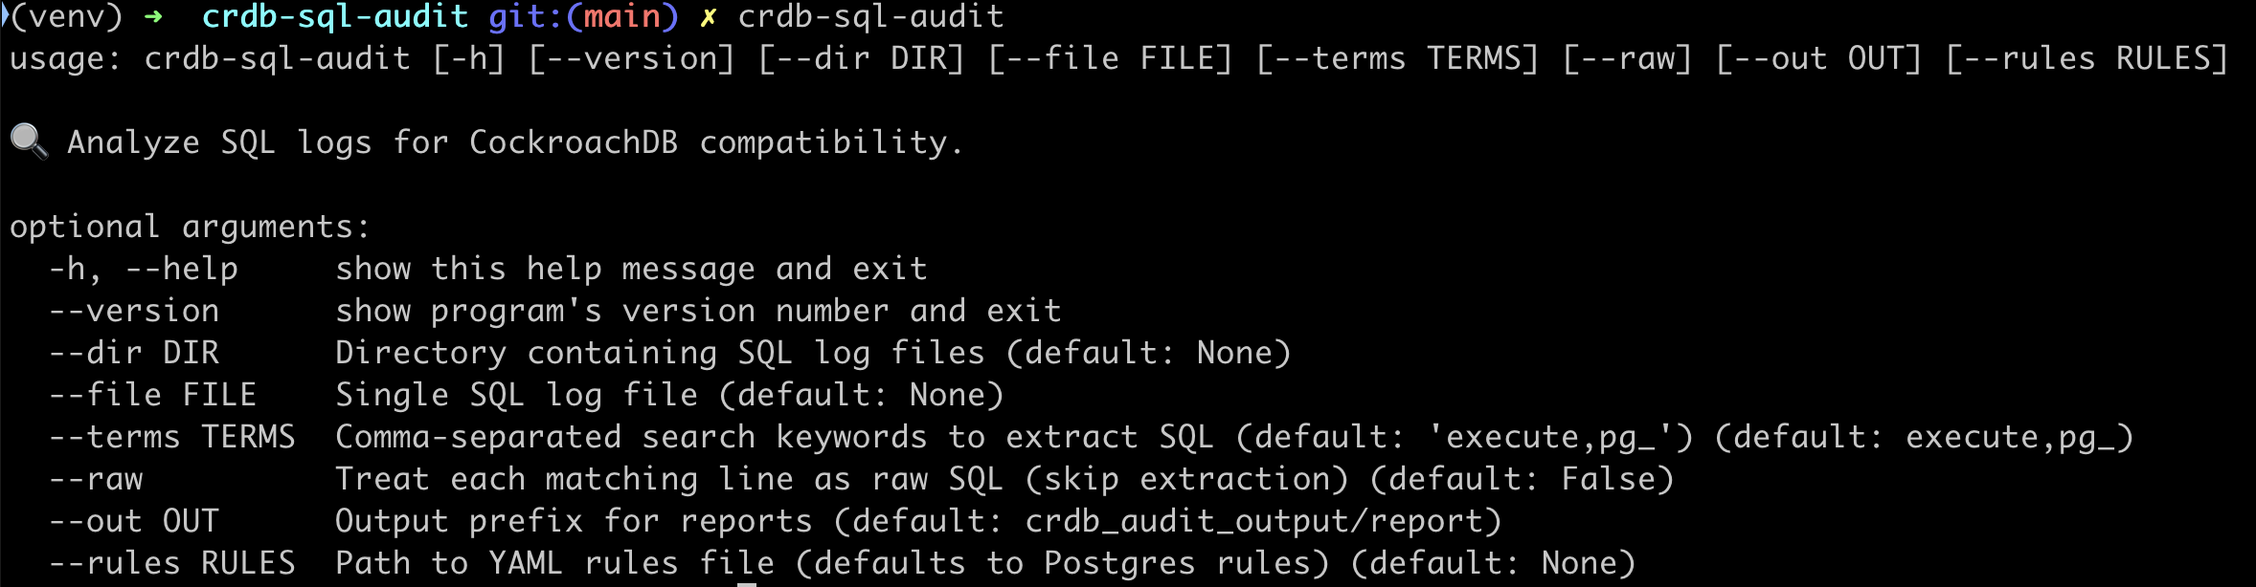
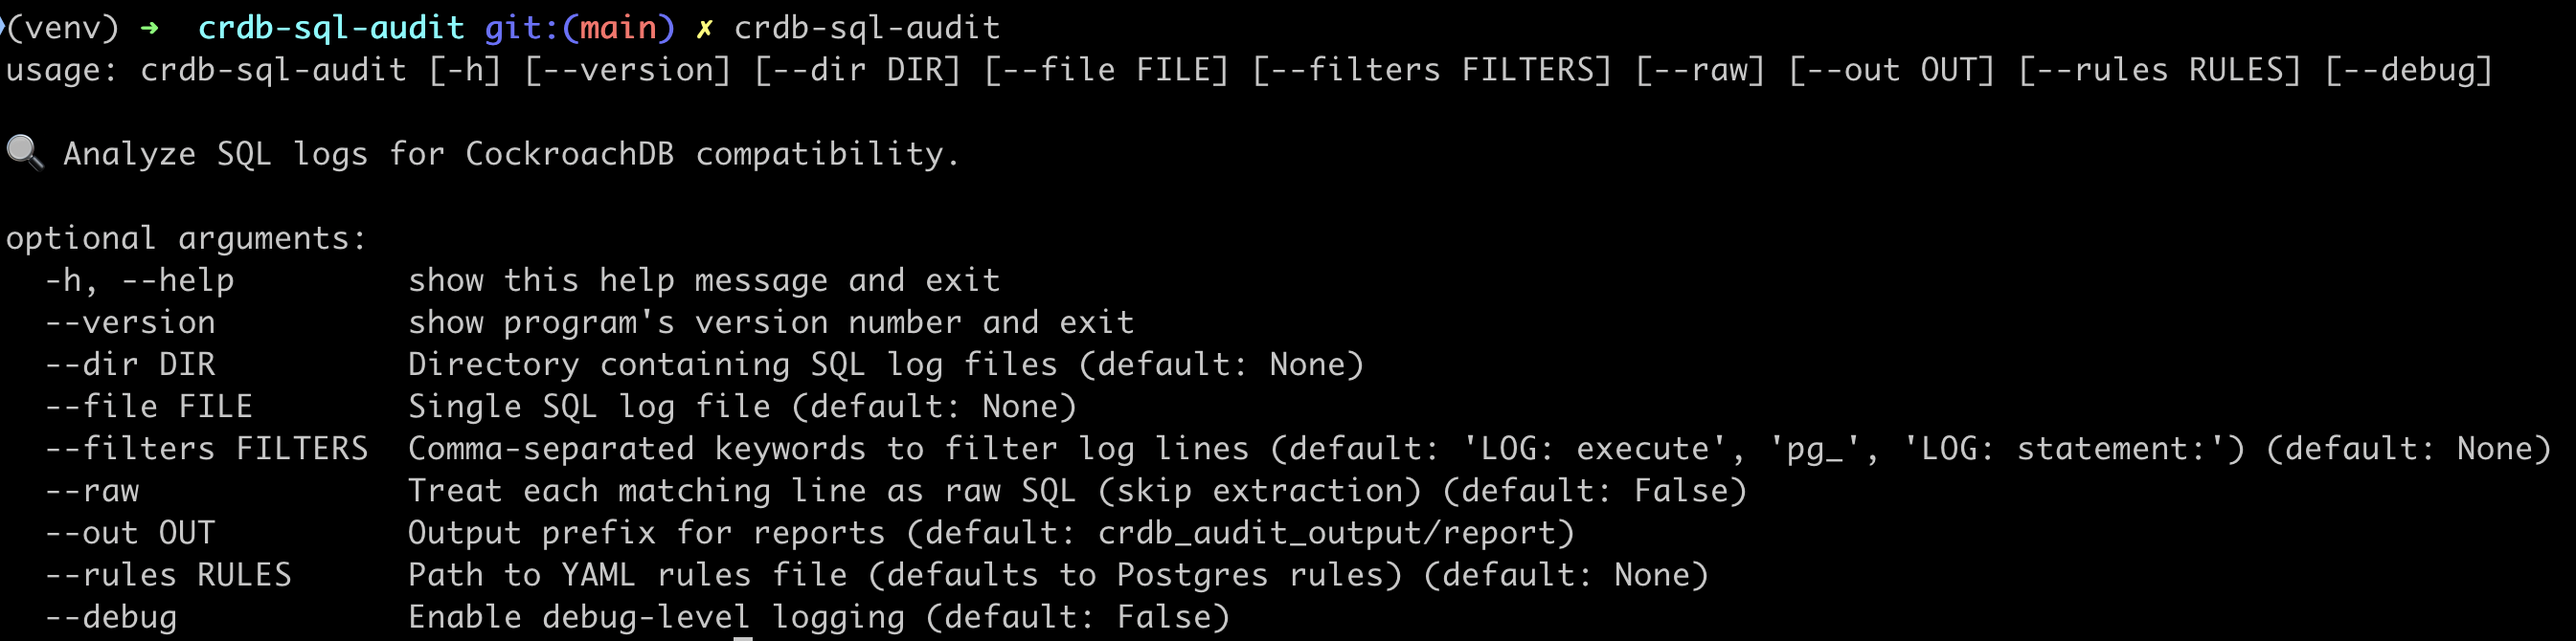
debug enhancements and raw support

Changed region(s): [[0.0, 0.3404, 0.9915, 1.0], [0.0, 0.0, 0.9915, 0.1547], [0.0, 0.2166, 0.4338, 0.2785]]

diff --git a/crdb_sql_audit/audit.py b/crdb_sql_audit/audit.py
@@ -9,6 +9,8 @@ import pandas as pd
 import matplotlib.pyplot as plt
 
 from .rules_engine import load_rules, apply_rules
+from collections import Counter
+
 
 def open_log_file(path):
     if path.endswith(".gz"):
@@ -18,8 +20,17 @@ def open_log_file(path):
     else:
         return open(path, "r", encoding="utf-8", errors="ignore")
 
-def extract_sql(logs_path, search_terms, raw_mode=False):
+
+def extract_sql(logs_path, line_filters=None, raw_mode=False):
+    if line_filters is None:
+        line_filters = ["LOG:  execute", "pg_", "LOG:  statement:"]
+        logging.info("🔍 No line filters provided. Using default: ['LOG:  execute', 'pg_', 'LOG:  statement:']")
+    else:
+        logging.info(f"🔍 Line filters used: {line_filters}")
+
     seen_sql = set()
+    structured_hits = 0
+    raw_hits = 0
 
     if os.path.isfile(logs_path):
         paths = [logs_path]
@@ -32,21 +43,61 @@ def extract_sql(logs_path, search_terms, raw_mode=False):
         if os.path.isfile(path):
             with open_log_file(path) as f:
                 for line in f:
-                    if any(term in line for term in search_terms):
-                        if raw_mode:
-                            sql = line.strip()
-                            if len(sql) > 5:
-                                seen_sql.add(sql)
-                        else:
-                            match = re.search(r'execute [^:]+: (.+)', line)
-                            if match:
-                                sql = match.group(1).strip()
-                                seen_sql.add(sql)
+                    if any(term in line for term in line_filters):
+                        logging.debug(f"🧲 Line matched filter: {line.strip()}")
+                        sql = extract_raw_sql(line) if raw_mode else extract_structured_sql(line, line_filters=line_filters)
+                        if sql:
+                            seen_sql.add(sql)
+                            if raw_mode:
+                                raw_hits += 1
                             else:
-                                func_match = re.findall(r'\b(pg_\w+\s*\(.*?\))', line)
-                                for func in func_match:
-                                    seen_sql.add(func.strip())
+                                structured_hits += 1
+    logging.info(f"✅ Total SQL statements extracted: {len(seen_sql)}")
+    logging.info(f"📊 Raw mode matches: {raw_hits}")
+    logging.info(f"📊 Structured matches: {structured_hits}")
+
+    sql_type_counts = Counter(issue['SQL_Type'] for issue in analyze_compatibility(seen_sql))
+    for sql_type, count in sql_type_counts.items():
+        logging.info(f"📈 SQL Type: {sql_type} — {count} matches")
+
+    sql_type_counts = Counter(issue['SQL_Type'] for issue in analyze_compatibility(seen_sql))
+    for sql_type, count in sql_type_counts.items():
+        logging.info(f"📈 SQL Type: {sql_type} — {count} matches")
+
     return seen_sql
+
+
+def extract_raw_sql(line):
+    logging.debug(f"📝 Checking raw line: {line.strip()}")
+    sql = line.strip()
+    return sql if len(sql) > 5 else None
+
+
+def extract_structured_sql(line, line_filters=None):
+    logging.debug(f"🔍 Checking structured line: {line.strip()}")
+
+    # If user provided custom filters, use those to extract SQL
+    if line_filters:
+        for filter_term in line_filters:
+            if filter_term in line:
+                sql = line.split(filter_term, 1)[-1].strip()
+                logging.debug(f"📤 Extracted via user filter '{filter_term}': {sql}")
+                return sql
+
+    # Fallback to default patterns
+    match = re.search(r'execute [^:]+: (.+)', line)
+    if not match:
+        match = re.search(r'LOG:\s*statement:\s*(.+)', line)
+    if match:
+        return match.group(1).strip()
+
+    # Fallback for pg_ built-ins
+    func_match = re.findall(r'\b(pg_\w+\s*\(.*?\))', line)
+    if func_match:
+        logging.debug(f"✅ Matched pg_ function: {func_match[0].strip()}")
+        return func_match[0].strip()
+
+    return None
 
 
 def analyze_compatibility(seen_sql, rules_path=None):
@@ -183,7 +234,7 @@ pre {
         for i, row in enumerate(issues[:10]):
             f.write(f"<h3>{i+1}. {row['SQL_Type']}: {row['Issue']}</h3><pre>{row['Example']}</pre>")
         f.write("<h2>All Compatibility Issues</h2><table id='issues' class='display'><thead><tr><th>SQL Type</th><th>Issue</th><th>Example</th></tr></thead><tbody>")
-        for row in issues:
+        for row in issues[:5000]:
             f.write(f"<tr><td>{row['SQL_Type']}</td><td>{row['Issue']}</td><td><code>{row['Example']}</code></td></tr>")
         f.write("</tbody></table><script>$(document).ready(()=>$('#issues').DataTable());</script></body></html>")
 

diff --git a/crdb_sql_audit/main.py b/crdb_sql_audit/main.py
@@ -4,16 +4,22 @@ import os
 import sys
 from crdb_sql_audit.audit import extract_sql, analyze_compatibility, generate_reports
 
-__version__ = "0.2.7"
+__version__ = "0.2.8"
+
+if "--debug" in sys.argv:
+    log_level = logging.DEBUG
+else:
+    log_level = logging.INFO
 
 logging.basicConfig(
-    level=logging.INFO,
+    level=log_level,
     format='[%(asctime)s] %(levelname)s: %(message)s',
     handlers=[
         logging.FileHandler("crdb_sql_audit.log", mode='w'),
         logging.StreamHandler()
     ]
 )
+
 
 def main():
     parser = argparse.ArgumentParser(
@@ -24,10 +30,11 @@ def main():
     parser.add_argument("--version", action="version", version=f"%(prog)s {__version__}")
     parser.add_argument("--dir", help="Directory containing SQL log files")
     parser.add_argument("--file", help="Single SQL log file")
-    parser.add_argument("--terms", default="execute,pg_", help="Comma-separated search keywords to extract SQL (default: 'execute,pg_')")
+    parser.add_argument("--filters", default=None, help="Comma-separated keywords to filter log lines (default: 'LOG:  execute', 'pg_', 'LOG:  statement:')")
     parser.add_argument("--raw", action="store_true", help="Treat each matching line as raw SQL (skip extraction)")
     parser.add_argument("--out", default="crdb_audit_output/report", help="Output prefix for reports")
     parser.add_argument("--rules", required=False, help="Path to YAML rules file (defaults to Postgres rules)")
+    parser.add_argument("--debug", action="store_true", help="Enable debug-level logging")
     args = parser.parse_args()
 
     if not args.dir and not args.file:
@@ -40,7 +47,7 @@ def main():
     if args.file and not os.path.isfile(args.file):
         parser.error(f"--file expects a file. Got: {args.file}")
 
-    search_terms = [t.strip() for t in args.terms.split(",")]
+    search_terms = [t.strip() for t in args.filters.split(",")] if args.filters else None
     logs_path = args.dir if args.dir else args.file
     seen_sql = extract_sql(logs_path, search_terms, raw_mode=args.raw)
     issues = analyze_compatibility(seen_sql, rules_path=args.rules)
@@ -62,6 +69,7 @@ def main():
             logging.info(f"   ▶ {sql}")
 
     generate_reports(seen_sql, issues, args.out)
+
 
 if __name__ == "__main__":
     main()

diff --git a/README.md b/README.md
@@ -64,7 +64,7 @@ pip install dist/crdb_sql_audit-0.2.0-py3-none-any.whl
 ```bash
 crdb-sql-audit \
   --dir /path/to/logs \
-  --terms execute,pg_ \
+  --filters execute,pg_ \
   --out output/report
 ```
 
@@ -73,7 +73,7 @@ You can also analyze a single file:
 ```bash
 crdb-sql-audit \
   --file /path/to/logfile.log \
-  --terms SELECT,INSERT \
+  --filters SELECT,INSERT \
   --raw \
   --out output/single_file_report
 ```
@@ -85,10 +85,11 @@ crdb-sql-audit \
 ```bash
 --dir       Directory containing SQL log files (mutually exclusive with --file)
 --file      Single SQL log file (mutually exclusive with --dir)
---terms     Comma-separated search keywords to extract SQL (default: 'execute,pg_')
+--filters     Comma-separated search keywords to extract SQL (default: 'LOG:  execute', 'pg_', 'LOG:  statement:')
 --raw       Treat each matching line as a raw SQL statement (default: False)
 --rules     Path to YAML rules file (optional, default: built-in PostgreSQL rules)
 --out       Output file prefix (default: crdb_audit_output/report)
+--debug     Enable debug-level logging
 --help      Show usage help
 --version   Show current version
 ```
@@ -106,7 +107,7 @@ crdb-sql-audit --help
 ```bash
 crdb-sql-audit \
   --dir ./logs \
-  --terms execute,pg_ \
+  --filters execute,pg_ \
   --rules ./rules/mysql_to_crdb.yaml \
   --out output/mysql_report
 ```
@@ -142,7 +143,7 @@ split -b 50M sql_only.log chunks/sql_chunk_
 
 ### 3. Run the Audit
 ```bash
-crdb-sql-audit --dir chunks --terms execute,pg_ --out output/report
+crdb-sql-audit --dir chunks --filters execute,pg_ --out output/report
 ```
 
 ### 🗜 Supported Log Formats
@@ -158,6 +159,18 @@ You can pass these directly using `--file` or `--dir`:
 ```bash
 crdb-sql-audit --file logs/app.log.gz --out output/report_from_gz
 ```
+
+### 🧪 Raw Mode vs. Filtered Mode
+
+This tool supports two modes of SQL log analysis:
+
+| Mode                  | Behavior                                                                |
+|-----------------------|-------------------------------------------------------------------------|
+| `--filters` (default) | Filters log lines using keywords like `LOG:  execute`, `pg_`, etc.      |
+| `--raw`               | Analyzes every line as a potential SQL statement — no filtering applied |
+
+> ✅ Use `--raw` if you want the most complete coverage, especially for mixed-format or unknown logs.
+> ⚠ Warning: large logs + `--raw` + `--debug` may generate gigabytes of audit output.
 
 ## 📚 Rule Engine Format
 
